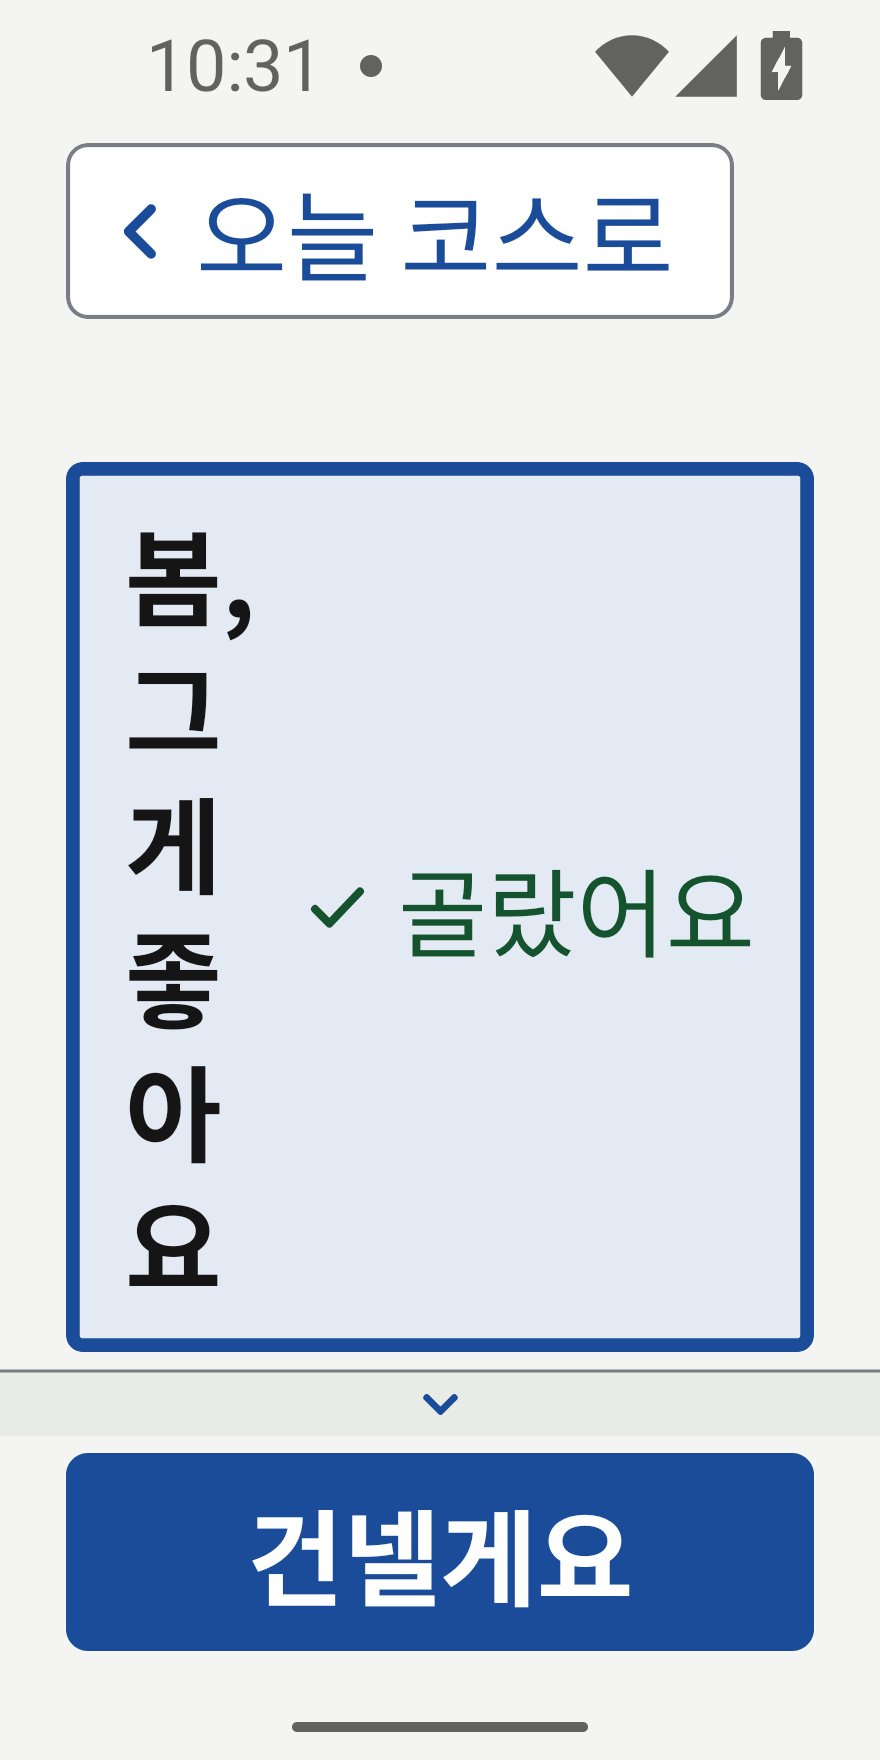
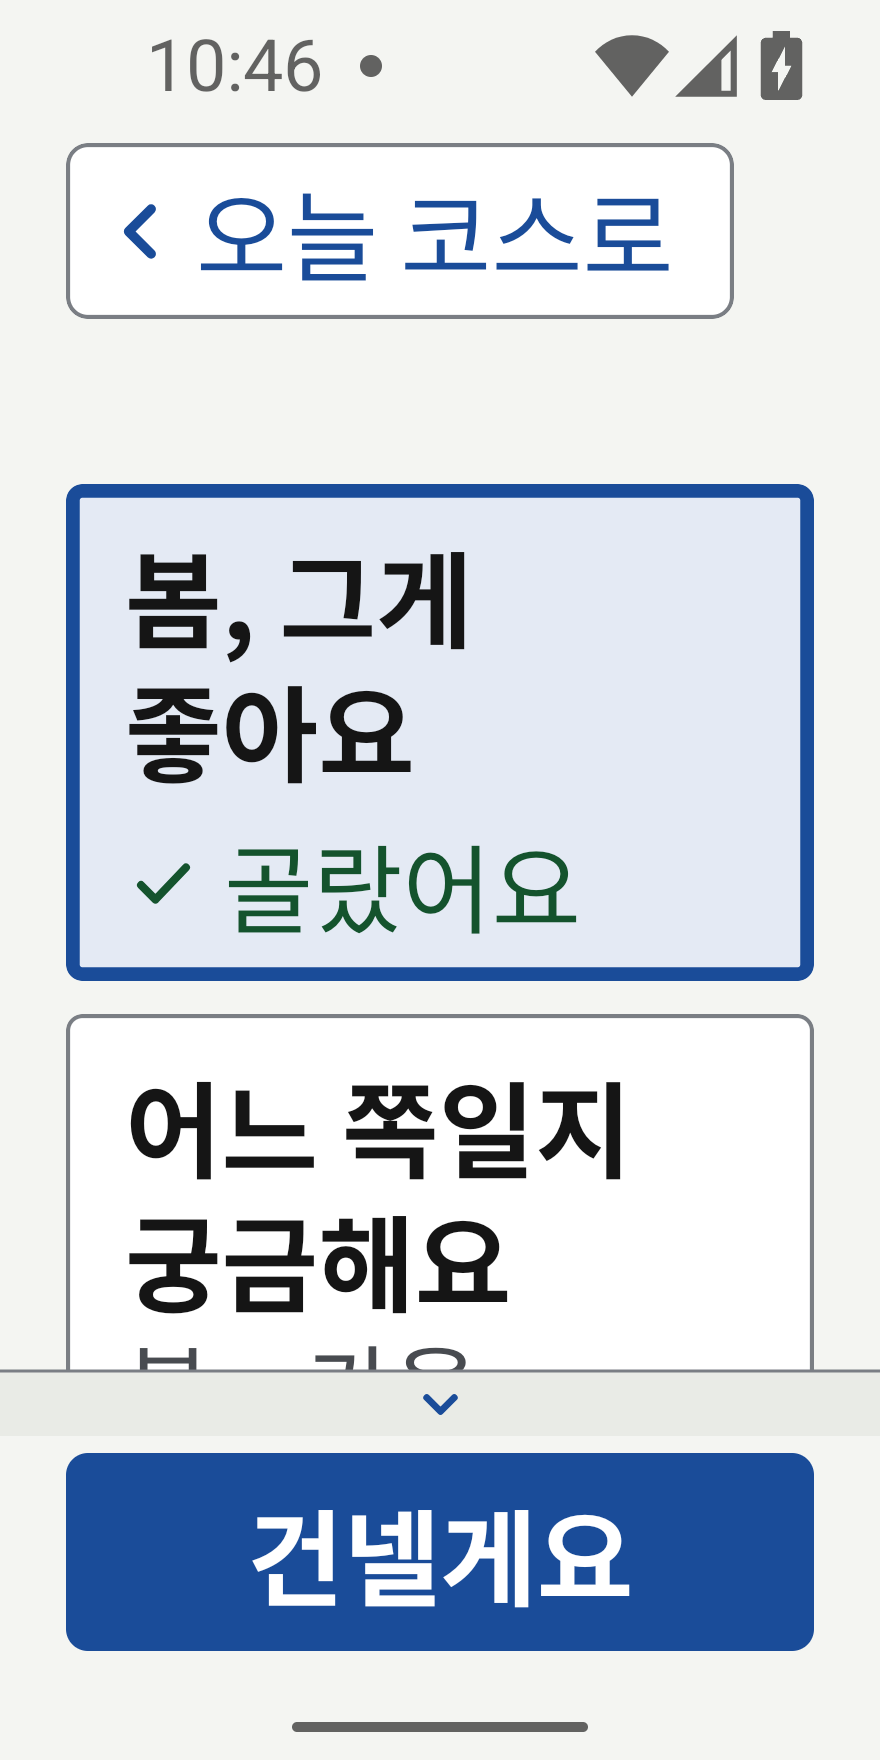
fix(ds): 200% 선택 카드 '골랐어요' 아래 줄 — 낱말 칸 flexShrink 0(#254 캡처 문제 2)
- tagBelow 가 실기기에서 줄을 바꾸지 못해 ②·⑤ 낱말이 한 글자씩 꺾였다(320×640 200%)
- 시험: 행 wrap + 낱말 칸 flexBasis 100% + flexShrink 0(Yoga 줄바꿈 조건), 고치기 전 2건 실패 확인
- 320×640 200% ②·⑤ 다시 캡처, README 문제 1·3~5는 [후속]

Changed region(s): [[0.0614, 0.25, 0.9511, 0.7812], [0.2761, 0.0, 0.3682, 0.0625], [0.7977, 0.0312, 0.8284, 0.0625]]

diff --git a/app/__tests__/fiveStepsOn.test.tsx b/app/__tests__/fiveStepsOn.test.tsx
@@ -55,6 +55,18 @@ const rowIds = () => [
   ),
 ];
 
+/**
+ * 200%·⑤ '골랐어요는 아래 줄'(시안 s2·s3): jest 에는 레이아웃이 없어, 그 배치를 만드는 조건을 Yoga 규칙대로 본다(#254 캡처 문제 2).
+ * 카드 행이 줄바꿈(wrap)이고, 낱말 칸이 한 줄 전체(flexBasis 100%)이면서 **줄어들지 않아야**(flexShrink 0) 표시가 다음 줄로 간다.
+ * flexShrink 가 1이면 Yoga 는 줄을 바꾸지 않고 낱말 칸을 줄여 한 글자씩 꺾는다(실기기 320×640 200% 캡처).
+ */
+function expectTagBelow(row: ReturnType<typeof screen.getByTestId>) {
+  expect(StyleSheet.flatten(row.props.style)?.flexWrap).toBe('wrap');
+  const body = row.findAll(n => typeof n.type === 'string' && StyleSheet.flatten(n.props.style)?.flexBasis === '100%');
+  expect(body.length).toBeGreaterThan(0);
+  expect(body.map(n => StyleSheet.flatten(n.props.style)?.flexShrink)).toEqual(body.map(() => 0));
+}
+
 async function doPhoto() {
   await pressCourseNext();
   await waitFor(() => screen.getByLabelText('사진 보기, 5단계 중 1단계'));
@@ -416,8 +428,7 @@ describe('200%', () => {
     expect([...new Set(ids)]).toEqual(['recall-choice', 'five-skip-inline']);
     fireEvent.press(screen.getByText('참새'));
     const row = screen.getByTestId('recall-choice-2');
-    const textBox = row.findAll(n => typeof n.type === 'string' && StyleSheet.flatten(n.props.style)?.flexBasis === '100%');
-    expect(textBox.length).toBeGreaterThan(0); // 낱말 칸이 한 줄을 다 차지 → ✓ 골랐어요는 다음 줄
+    expectTagBelow(row); // 낱말 칸이 한 줄을 다 차지하고 줄어들지 않음 → ✓ 골랐어요는 다음 줄
   });
   test('코스 홈: "오늘은 여기까지 할게요"는 단계 행 바로 아래 본문(Dock 아님)', async () => {
     await home({completedSteps: ['photo', 'recall', 'question']});
@@ -442,6 +453,6 @@ describe('200%', () => {
     expect(dock().queryByRole('button', {name: '오늘은 넘어갈게요'})).toBeNull();
     expect(within(screen.getByTestId('pass-on-body')).getByTestId('five-skip-inline')).toBeTruthy();
     const row = screen.getByTestId('pass-on-choice-ask_which');
-    expect(row.findAll(n => typeof n.type === 'string' && StyleSheet.flatten(n.props.style)?.flexBasis === '100%').length).toBeGreaterThan(0);
+    expectTagBelow(row);
   });
 });

diff --git a/app/src/ui/ds/Choice.tsx b/app/src/ui/ds/Choice.tsx
@@ -185,7 +185,8 @@ const styles = StyleSheet.create({
   selected: {backgroundColor: c.actionSoft, borderColor: c.action, borderWidth: 4},
   body: {flex: 1, gap: 2},
   answerBody: {flexGrow: 1, flexShrink: 1, flexBasis: 120, gap: 2},
-  answerBodyFull: {flexBasis: '100%'},
+  // 한 줄 전체 + 줄어들지 않음: flexShrink 1 이면 Yoga 가 줄을 바꾸지 않고 글 칸을 줄여 한 글자씩 꺾는다(#254 실기기 320×640 200% 캡처)
+  answerBodyFull: {flexBasis: '100%', flexShrink: 0},
   // 테두리가 1.5 → 5 로 굵어져도 내용 자리가 움직이지 않게 안쪽 여백을 그만큼 줄인다(가로·세로). 좁으면 '✓ 골랐어요'가 다음 줄로
   answer: {borderWidth: 1.5, paddingHorizontal: 20, paddingVertical: 14, flexWrap: 'wrap', alignContent: 'center'},
   answerSelected: {backgroundColor: c.actionSoft, borderColor: c.action, borderWidth: 5, paddingHorizontal: 16.5, paddingVertical: 10.5},

diff --git a/docs/team/qa/evidence/2026-11-25-five-steps/README.md b/docs/team/qa/evidence/2026-11-25-five-steps/README.md
@@ -4,7 +4,7 @@
   - 시작할 때 화면 설정: 1080×2340, density 440, 글자 1.0, TalkBack 끔
   - 호스트 부하 1분 평균: 시작 때 14.1이었다. 찍는 동안 5.9~19.8이었다. 19.8일 때 찍은 장면은 부하가 15 아래로 내려간 뒤 다시 찍었다.
 - **빌드**: 설치돼 있던 staging 디버그 APK(`com.bumojasik.app.staging`)에 이 브랜치 JS를 올렸다.
-  - 브랜치는 `v4/five-steps-app` 머리 `ee2dc2ac`다.
+  - 브랜치는 `v4/five-steps-app` 머리 `ee2dc2ac`다. 320×640 200% 03~06은 문제 2를 고친 코드로 다시 찍었다.
   - Metro는 8091에서 띄우고 `adb reverse tcp:8081 tcp:8091`로 연결했다. 맥의 8081은 건드리지 않았다.
 - **임시 상태** (커밋하지 않았고 모두 되돌렸다)
   - `config.local.ts`: `API_MODE: 'fake'`(가짜 API 모드)
@@ -30,8 +30,8 @@
 | 01 | 코스 홈 진행 중(③ 마친 뒤). 열릴 때 지금 행(④)으로 스크롤한다. 100%는 Dock 아래 「오늘은 여기까지 할게요」 | 지금 행이 '더 있음' 띠에 걸쳐 반쯤 가려진다 → **문제 1** | 같은 문제(지금 행은 윗테두리만 보임) |
 | 02 / 02b | 코스 홈 다 마침: 제목 옆 도장 1개, 행에는 도장 없음 / 끝까지 내림 | 도장은 3줄 제목 아래 줄로 내려간다(묶음 wrap) | 첫 화면에는 제목·도장만 있다 |
 | 03 | ② 떠올려 보기 첫 화면 | 보기 카드가 첫 화면에 없다(시안 리스크 3과 같음) | '2 / 5', 사진 80 + 고지(아래), 질문까지. 넘어가기는 본문 |
-| 04 | ② 보기 '참새'를 고른 뒤 | 카드 옆에 ✓ '골랐어요' | **'참/새'가 한 글자씩 꺾이고, '골랐어요'가 아래 줄로 가지 않는다 → 문제 2** |
-| 05 / 06 | ⑤ 이야기 건네기 / 카드를 고른 뒤 | 카드 3장, 셋째 보조 줄 '봄 · 가을'. 고른 카드는 ✓ '골랐어요'가 아래 줄 | **'봄, 그게 좋아요'가 세로로 한 글자씩 꺾인다 → 문제 2** |
+| 04 | ② 보기 '참새'를 고른 뒤 | 카드 옆에 ✓ '골랐어요' | 고친 뒤 다시 찍음: '참새' 한 줄, ✓ '골랐어요'는 아래 줄(문제 2 해결) |
+| 05 / 06 | ⑤ 이야기 건네기 / 카드를 고른 뒤 | 카드 3장, 셋째 보조 줄 '봄 · 가을'. 고른 카드는 ✓ '골랐어요'가 아래 줄 | 고친 뒤 다시 찍음: '봄, 그게 / 좋아요' 두 줄 + ✓ '골랐어요' 아래 줄(문제 2 해결) |
 | 07 | '오늘은 여기까지' → P7(대화상자 없음, 단계 수 문구 없음) | 정상 | 본문 둘째 줄이 접힘 아래(문제 3 참고) |
 | 08 / 08b | ⑤에서 건넨 날 P7 / 내림 | **본문 첫 줄 「가족에게 건넸어요」가 첫 화면 밖**(본문 3줄이 통째로 밀림), 내리면 제목과 본문 사이가 크게 비어 있다 → **문제 3** | 같다 |
 | 09 / 09b | 오늘 한 장 / 끝까지 내림: '먼저 떠올리신 것 · 참새'가 '오늘 낱말'을 대신하고, 맨 아래 '건넨 말 · 참새 얘기할게요' | 정상 | 정상 |
@@ -46,21 +46,26 @@
 |---|---|---|
 | p257-320-200-p5-top.png | 320×640 200% | P5 단계 제목이 **'2 / 3' 한 줄**이다(150% 이상 compact). 그 아래 머리줄 → 질문, Dock 위 비활성 이유 '한쪽을 고르면 눌려요' |
 
-## 보인 문제 (고치지 않고 기록만 — 리드 지시)
+## 보인 문제
 
-1. **지금 행 스크롤 위치** (01, 두 배율 모두)
+- 2번은 이 PR 에서 고쳤다(리드 결정). 1·3·4·5번은 디자인 판단이 필요해 **후속** 과제로 넘겼다(리드 결정).
+
+1. **[후속] 지금 행 스크롤 위치** (01, 두 배율 모두)
    - `CourseHome`은 행의 자연 위치(FoldStack 측정값)로 `showRange`를 부른다.
    - 그런데 실제 행은 R-15 접힘 여백만큼 더 아래에 있다. 그래서 스크롤한 뒤에도 지금 행이 '더 있음' 띠 아래로 반쯤 가려진다.
    - 스크롤한 화면 위쪽에는 접힘 여백(빈칸)도 보인다.
    - jest에는 레이아웃이 없어 이 경로를 시험하지 못했다.
-2. **200% 선택 카드 글자 꺾임** (04·06, 320×640 200%)
+2. **[해결] 200% 선택 카드 글자 꺾임** (04·06, 320×640 200%)
    - `Choice`의 `tagBelow`(`answerBody`의 `flexBasis: '100%'`)가 실기기에서 줄을 바꾸지 못한다. 글 칸이 '골랐어요' 옆에서 줄어들어 낱말이 한 글자씩 꺾인다.
    - ⑤는 「봄, 그게 좋아요」가 세로로 한 글자씩 나온다.
    - 원인 추정: `flexShrink` 1 때문에 wrap 대신 줄어든다.
    - jest 시험은 스타일 값만 봐서 이 문제를 잡지 못했다.
-   - **200% 사용성에 직접 영향** — 다음 수정 1순위로 제안한다.
-3. **P7 본문이 첫 화면 밖으로 밀림** (08: 360 100%, 07·08: 320 200%)
+   - **고침**: `Choice` `answerBodyFull` 에 `flexShrink: 0`을 더했다.
+     - 시험 `fiveStepsOn`의 `expectTagBelow`는 Yoga 가 줄을 바꾸는 조건을 본다: 행 `flexWrap: wrap` + 낱말 칸 `flexBasis 100%` + `flexShrink 0`.
+     - 실패 확인: 고치기 전 코드에서 ②·⑤ 200% 시험 2건이 실패했다.
+     - 320×640 200% 03~06을 다시 찍었다. 부하는 13.1이었다.
+3. **[후속] P7 본문이 첫 화면 밖으로 밀림** (08: 360 100%, 07·08: 320 200%)
    - 건넨 날은 본문이 3줄이 된다. 그러면 R-15 접힘 규칙으로 본문 묶음이 통째로 밀려, 첫 화면에 제목만 남는다.
    - 3단계 P7(본문 2줄)도 320 200%에서는 같은지 비교 캡처가 필요하다.
-4. ② 100% 첫 화면에 보기 카드가 하나도 없다(03). 시안 README 리스크 3에서 이미 예상한 것이다. 관찰 테스트에서 볼 항목이다.
-5. 다 마친 홈의 도장이 제목 오른쪽이 아니라 아래 줄에 있다(02). 제목이 3줄이라 묶음이 wrap된 결과다. 시안 C-나는 제목 옆을 기대했으니 디자인 확인이 필요하다.
+4. **[후속]** ② 100% 첫 화면에 보기 카드가 하나도 없다(03). 시안 README 리스크 3에서 이미 예상한 것이다. 관찰 테스트에서 볼 항목이다.
+5. **[후속]** 다 마친 홈의 도장이 제목 오른쪽이 아니라 아래 줄에 있다(02). 제목이 3줄이라 묶음이 wrap된 결과다. 시안 C-나는 제목 옆을 기대했으니 디자인 확인이 필요하다.
